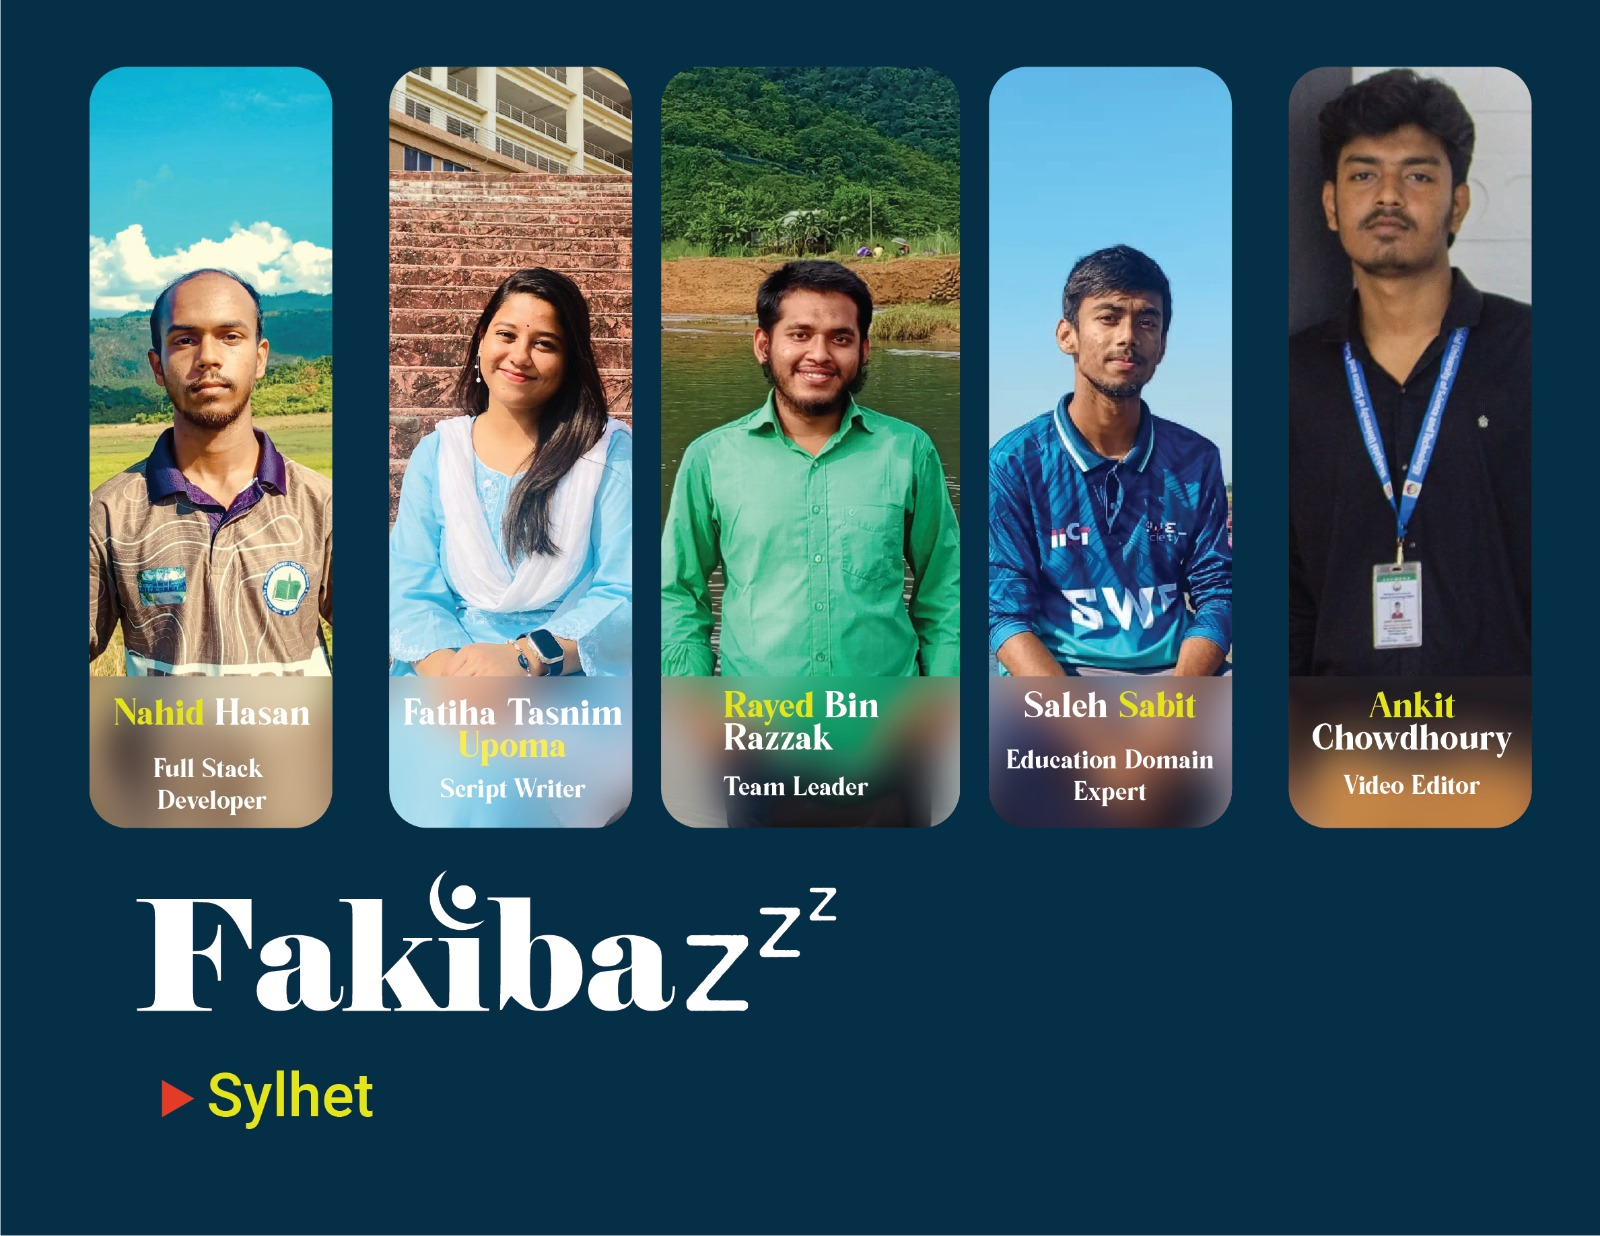
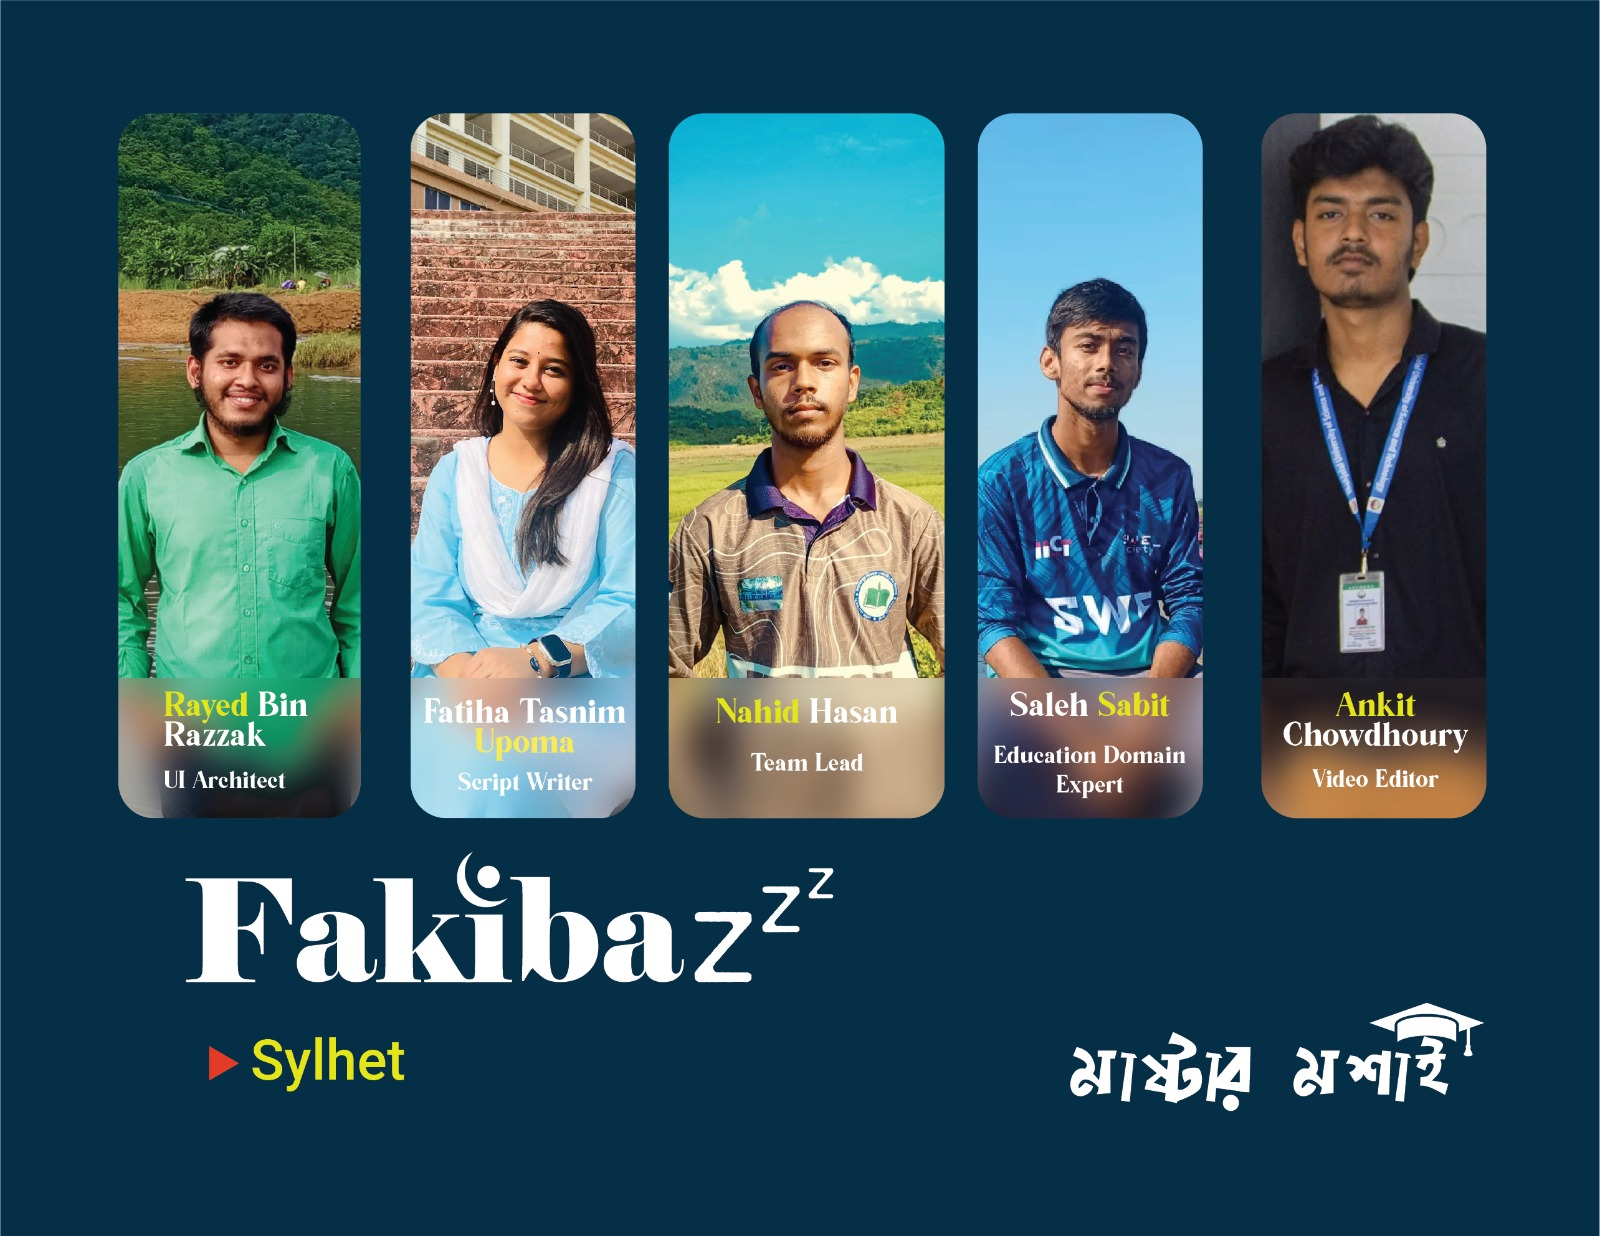
Changes

diff --git a/src/pages/Team.tsx b/src/pages/Team.tsx
@@ -15,13 +15,13 @@ interface TeamMember {
 const teamMembers: TeamMember[] = [
   {
     name: 'Rayed',
-    role: 'Team Leader',
+    role: 'UI Architect',
     image: '/team/rayed.jpg',
     color: 'from-primary to-accent',
   },
   {
     name: 'Nahid',
-    role: 'Full-Stack Developer',
+    role: 'Team Lead',
     image: '/team/nahid.jpg',
     color: 'from-accent to-success',
   },
